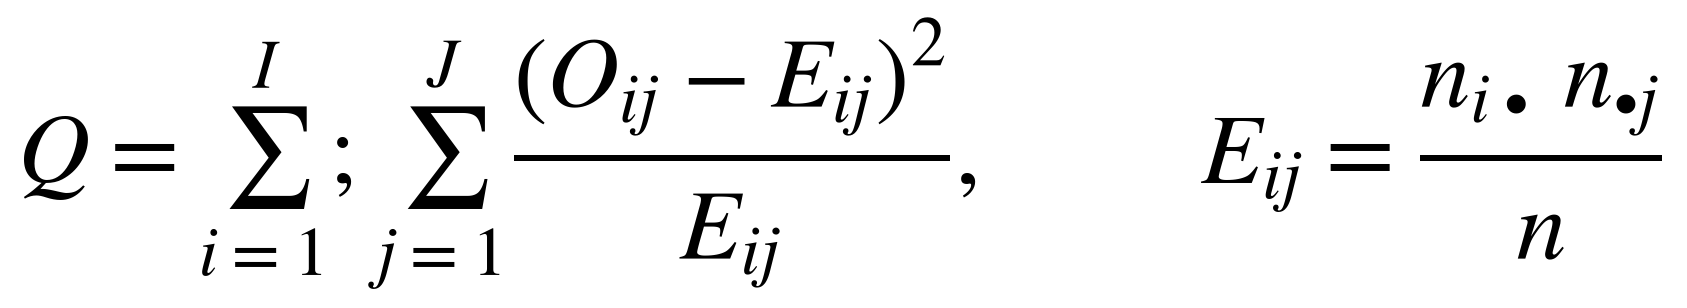
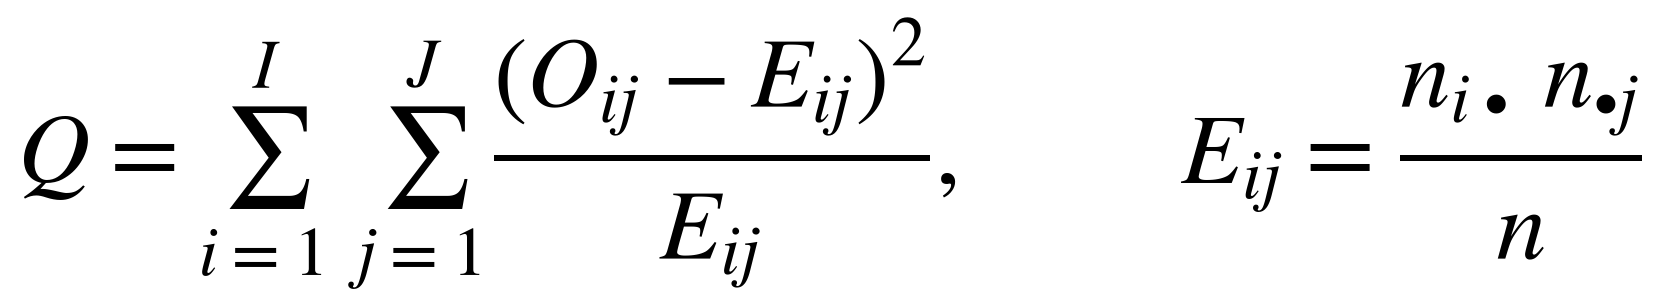
Corrige o espaçamento entre os somatórios do qui-quadrado

diff --git a/docs/formulas/gerar.py b/docs/formulas/gerar.py
@@ -17,7 +17,7 @@ FORMULAS = {
     "03a_duas_proporcoes_teste": r"Z = \dfrac{\hat{p}_1-\hat{p}_2}{\sqrt{\hat{p}(1-\hat{p})\left(\dfrac{1}{n_1}+\dfrac{1}{n_2}\right)}}," + Q
                                  + r"\hat{p} = \dfrac{n_1\hat{p}_1+n_2\hat{p}_2}{n_1+n_2}",
     "03b_duas_proporcoes_ic": r"\hat{p}_1-\hat{p}_2 \pm z_{\alpha/2}\sqrt{\dfrac{\hat{p}_1(1-\hat{p}_1)}{n_1}+\dfrac{\hat{p}_2(1-\hat{p}_2)}{n_2}}",
-    "04_qui_quadrado":   r"Q = \sum_{i=1}^{I};\sum_{j=1}^{J}\dfrac{(O_{ij}-E_{ij})^2}{E_{ij}}," + Q + r"E_{ij} = \dfrac{n_{i\bullet}\,n_{\bullet j}}{n}",
+    "04_qui_quadrado":   r"Q = \sum_{i=1}^{I}\;\sum_{j=1}^{J}\dfrac{(O_{ij}-E_{ij})^2}{E_{ij}}," + Q + r"E_{ij} = \dfrac{n_{i\bullet}\,n_{\bullet j}}{n}",
     "05_kolmogorov":     r"K = \max\left|F_0(x)-F_n(x)\right|",
     "06_anova":          r"F = \dfrac{\mathrm{SQE}/(k-1)}{\mathrm{SQD}/(n-k)}," + Q
                          + r"\mathrm{SQE} = \sum_{i=1}^{k} n_i(\overline{X}_i-\overline{X})^2," + Q
